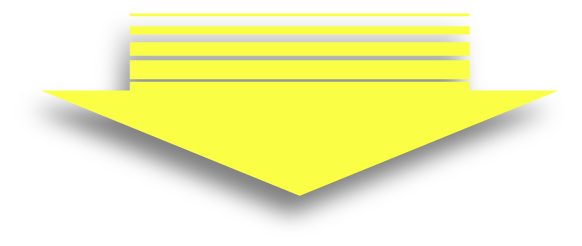
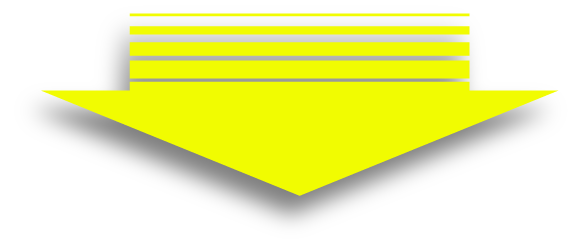
More styling the new arrow.

diff --git a/frontend/src/components/home-page/Greeting.module.scss b/frontend/src/components/home-page/Greeting.module.scss
@@ -133,7 +133,7 @@
       margin-right: -20px;
       padding-top: 30px;
     }
-    div {
+    > div {
       position: relative;
       text-align: left;
       padding: 0;
@@ -254,23 +254,33 @@
       position: relative;
       display: flex;
       flex-direction: column;
-      justify-content: flex-start;
       align-items: center;
-      padding-top: 57px;
+      aspect-ratio: 3 / 1;
       border: none;
-      font-size: 30px;
+      font-size: 25px;
       font-weight: 700;
       margin-left: auto;
       margin-right: auto;
       color: black;
       text-decoration: none;
       line-height: 1em;
-      margin-bottom: 50px;
-      height: 160px;
-      width: 500px;
+      margin-bottom: 0px;
+      width: 100%;
+      max-width: 500px;
       background-image: url("/images/home/wide-arrow.webp");
       background-repeat: no-repeat;
       background-size: 100% 100%;
+      @include breakpoint-up($b360px) {
+        font-size: 27px;
+      }
+      @include breakpoint-up($b480px) {
+        font-size: 30px;
+      }
+      > * {
+        position: absolute;
+        top: 45%;
+        transform: translateY(-50%);
+      }
     }
   }
 }

diff --git a/frontend/src/components/home-page/Greeting.tsx b/frontend/src/components/home-page/Greeting.tsx
@@ -59,7 +59,7 @@ const Greeting: React.FC = () => {
               </p>
             </div>
             <a ref={addToRefs} href="#list">
-              3. Take a look!
+              <div>3. Take a look!</div>
             </a>
           </div>
         </div>
